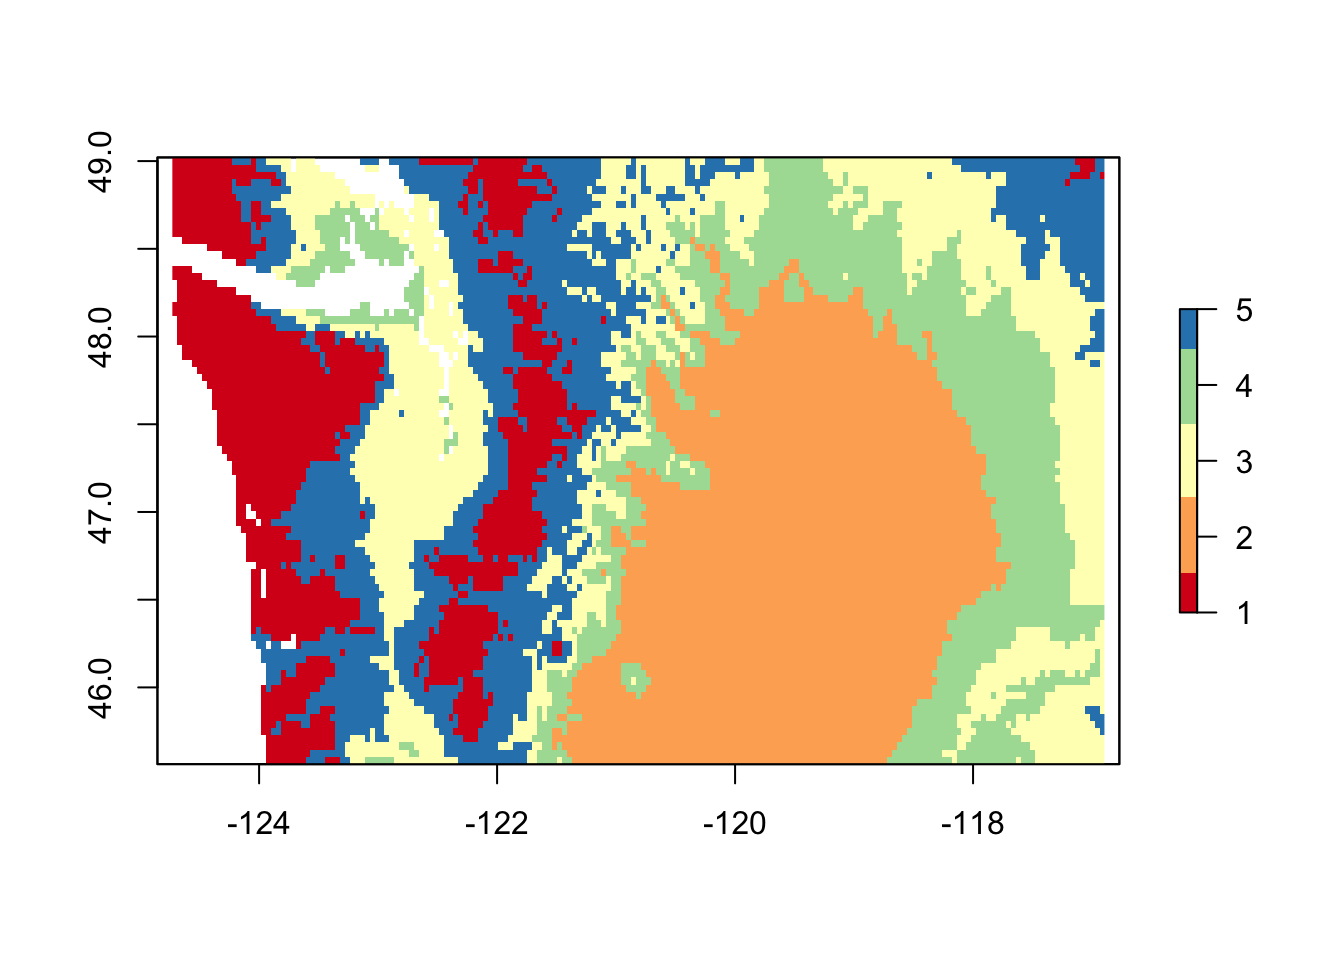
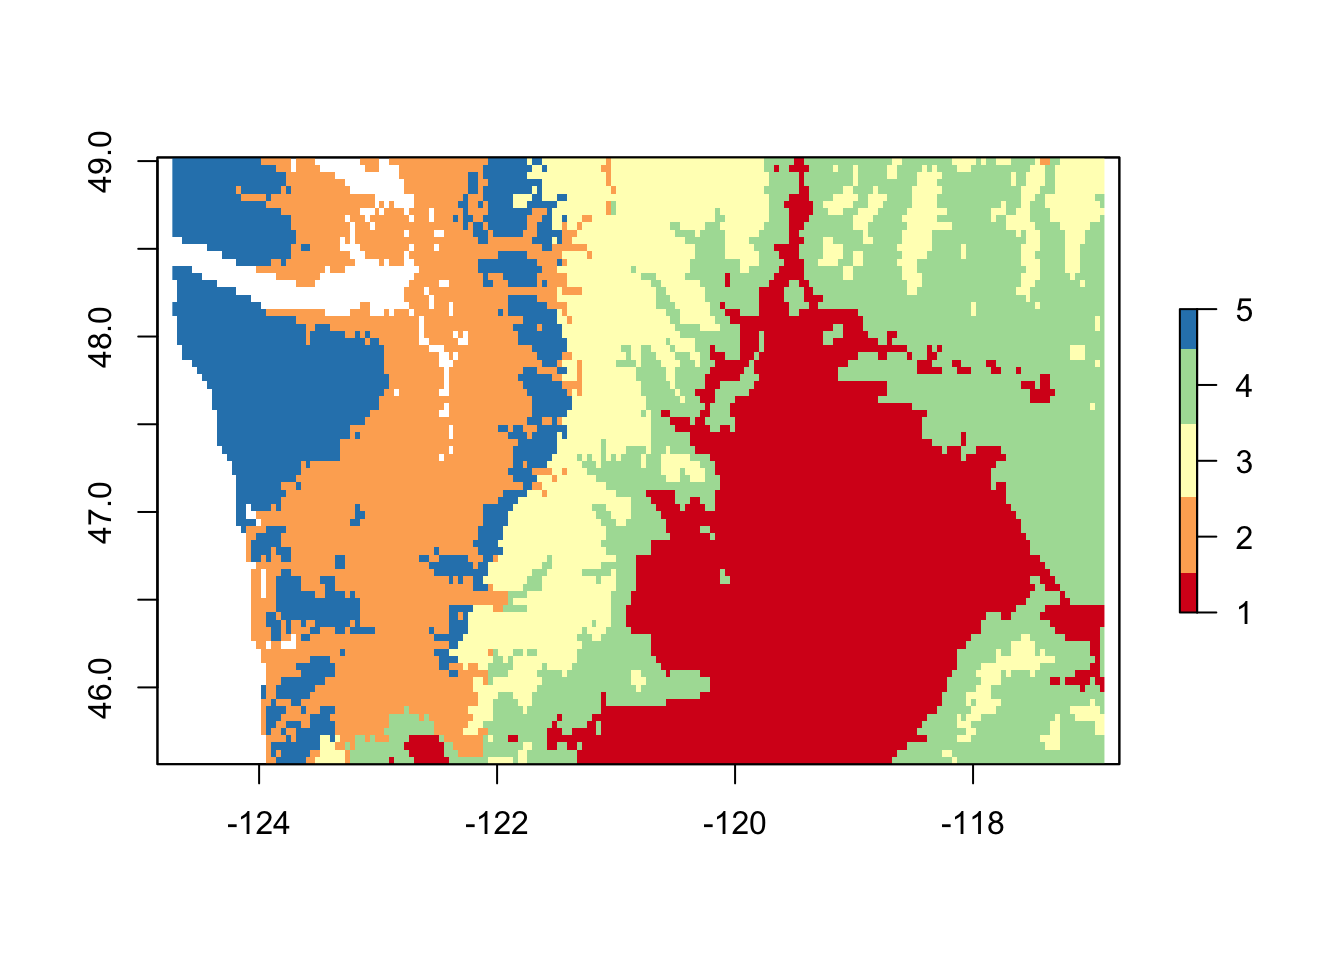
day20

diff --git a/day20.html b/day20.html
@@ -373,74 +373,32 @@ library(sp)
 library(rasterVis)</code></pre>
 <pre class="r"><code>params = c(&quot;tmax&quot;, &quot;tmin&quot;, &quot;prcp&quot;, &quot;srad&quot;)
 
-Washi = USAboundaries::us_states() %&gt;% filter(name == &quot;Washington&quot;)
+AOI = USAboundaries::us_states() %&gt;% filter(name == &quot;Washington&quot;)
 
-s = getTerraClim(Washi, params, startDate = &quot;2018-06-01&quot;) %&gt;% 
+s = getTerraClim(AOI, params, startDate = &quot;2018-06-01&quot;) %&gt;% 
   stack() %&gt;% 
   setNames(params)
 plot(s)</code></pre>
 <p><img src="day20_files/figure-html/unnamed-chunk-2-1.png" width="672" /></p>
 <pre class="r"><code>#max
-values_tmax = s$tmax %&gt;%
-  values()
+values = values(s)
 
-idx = which(!is.na(values_tmax))
-v = na.omit(values_tmax)
+idx = which(!is.na(values))
+
+v = na.omit(values)
+
 vs = scale(v)
 
-Emax = kmeans(vs, 5, iter.max = 100)
+e = kmeans(vs, 5, iter.max = 100)
+
 clus_raster = s$tmax
+
 values(clus_raster) = NA
-clus_raster[idx] &lt;- Emax$cluster
+
+clus_raster[idx] &lt;- e$cluster
 
 plot(clus_raster, col = RColorBrewer::brewer.pal(5, &quot;Spectral&quot;))</code></pre>
 <p><img src="day20_files/figure-html/unnamed-chunk-2-2.png" width="672" /></p>
-<pre class="r"><code>#min
-values_tmin = s$tmin %&gt;%
-  values()
-
-idx = which(!is.na(values_tmin))
-v2 = na.omit(values_tmin)
-vs = scale(v2)
-
-Emin = kmeans(vs, 5, iter.max = 100)
-clus_rasterM = s$tmin
-values(clus_rasterM) = NA
-clus_rasterM[idx] &lt;- Emin$cluster
-
-plot(clus_rasterM, col = RColorBrewer::brewer.pal(5, &quot;Spectral&quot;))</code></pre>
-<p><img src="day20_files/figure-html/unnamed-chunk-2-3.png" width="672" /></p>
-<pre class="r"><code>#prcp
-values_prcp = s$prcp %&gt;%
-  values()
-
-idx = which(!is.na(values_prcp))
-v3 = na.omit(values_prcp)
-vs = scale(v3)
-
-Eprcp = kmeans(vs, 5, iter.max = 100)
-clus_rasterP = s$prcp
-values(clus_rasterP) = NA
-clus_rasterP[idx] &lt;- Eprcp$cluster
-
-plot(clus_rasterP, col = RColorBrewer::brewer.pal(5, &quot;Spectral&quot;))</code></pre>
-<p><img src="day20_files/figure-html/unnamed-chunk-2-4.png" width="672" /></p>
-<pre class="r"><code>#srad
-values_srad = s$srad %&gt;%
-  values()
-
-idx = which(!is.na(values_srad))
-clus_rasterM = s$srad
-v4 = na.omit(values_srad)
-vs = scale(v4)
-
-Esrad = kmeans(vs, 5, iter.max = 100)
-clus_rasterS = s$srad
-values(clus_rasterS) = NA
-clus_rasterS[idx] &lt;- Esrad$cluster
-
-plot(clus_rasterS, col = RColorBrewer::brewer.pal(5, &quot;Spectral&quot;))</code></pre>
-<p><img src="day20_files/figure-html/unnamed-chunk-2-5.png" width="672" /></p>
 
 
 
